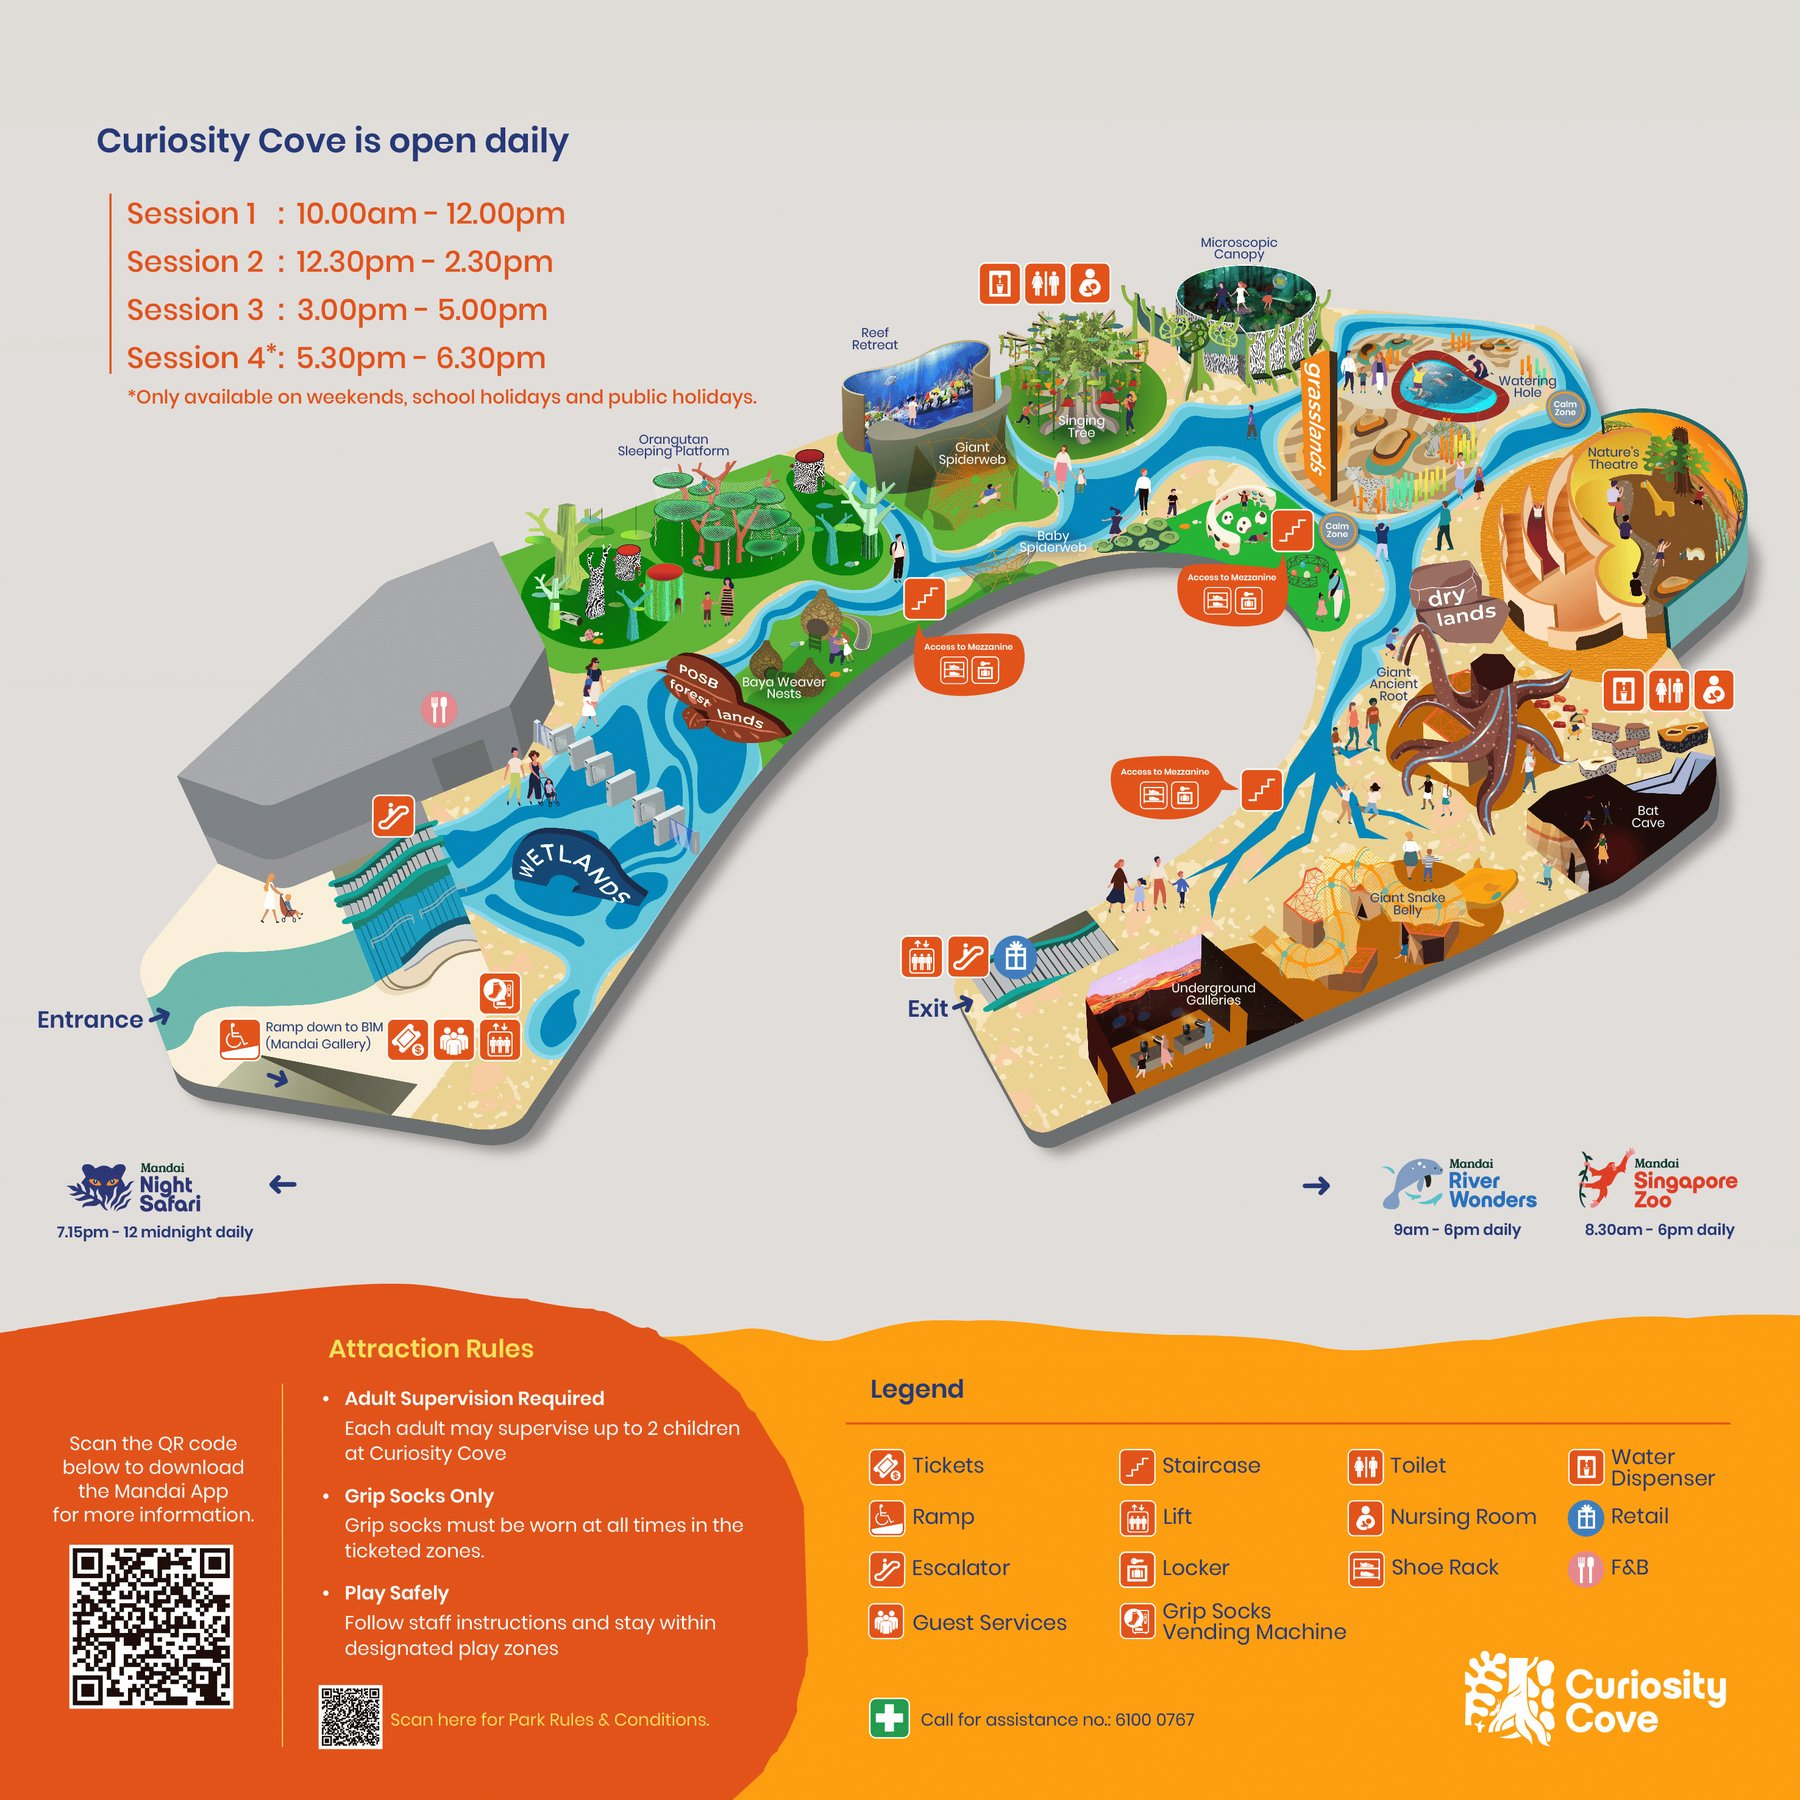
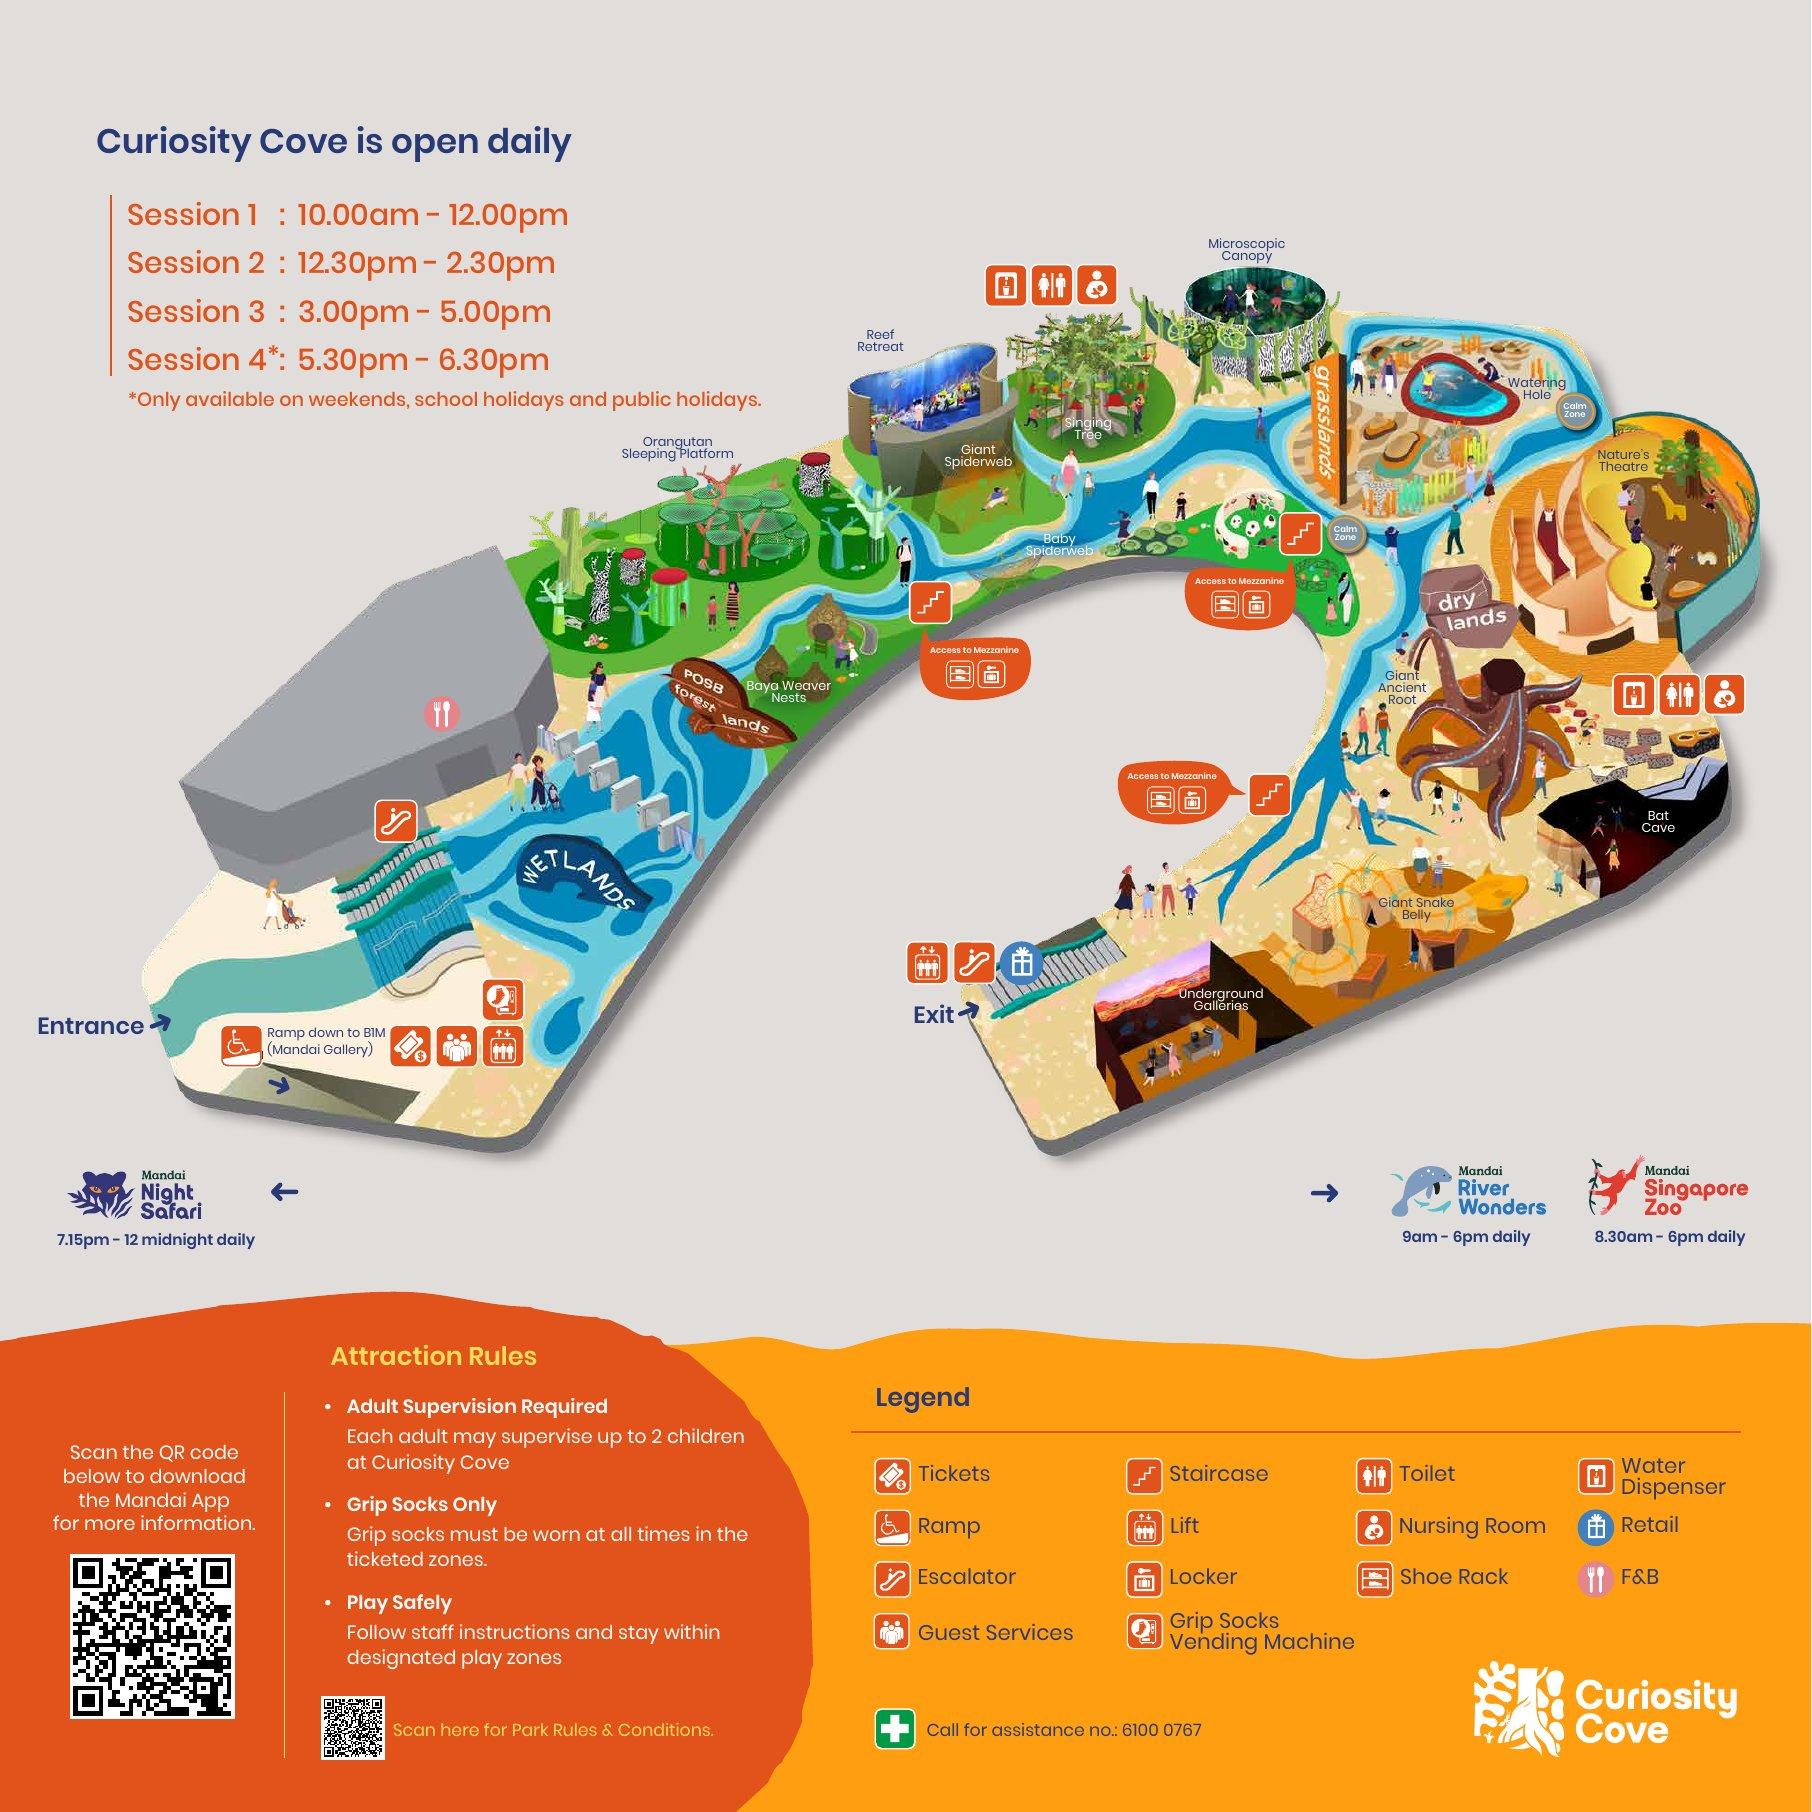
Intro photos for all attractions, new D3 maps and D5 postcard, optional-stop transit alternatives
- Intro card photos: Palawan, Singapore Zoo, Curiosity Cove, Merlion, Gardens by the Bay, Jewel
- D5 postcard replaced with Rain Vortex photo
- New Singapore Zoo (zh) and Curiosity Cove maps
- Collapsible "skip optional stop" transit alternative (D1 Chinatown, D2 Haji Lane)

diff --git a/index.html b/index.html
@@ -2588,6 +2588,22 @@ body[data-phase="depart"] .day-content::after { background-image: url("data:imag
   background: color-mix(in srgb, var(--accent) 22%, #ffffff);
   color: color-mix(in srgb, var(--accent) 88%, #3b2a1e);
 }
+
+/* 彈性行程的替代交通：收在「↳ 沒去○○時」小按鈕裡，點了才展開 */
+.move-alt-btn {
+  font: inherit;
+  font-family: var(--font-sans);
+  font-size: 11.5px;
+  color: var(--text-faint);
+  background: none;
+  border: none;
+  border-bottom: 1px dashed var(--line);
+  padding: 0 1px;
+  cursor: pointer;
+}
+.move-alt-btn.is-open { color: var(--text-soft); }
+.move-alt { margin-top: 6px; padding-left: 10px; border-left: 2px solid var(--line-soft); }
+.move-alt-label { display: block; font-family: var(--font-sans); font-size: 11px; color: var(--text-faint); margin-bottom: 3px; }
 </style>
 </head>
 
@@ -2904,6 +2920,7 @@ const itineraryData = [
         place: "牛車水 中國城 Chinatown",
         transit: [{ mode: "mrt", text: "聖淘沙捷運＋NE 線 35 分" }],
         route: "聖淘沙捷運回 VivoCity，HarbourFront 搭 NE 線到 Chinatown（2 站）。",
+        transitAlt: { label: "沒去巴拉灣時", from: "從住宿出發：", transit: [{ mode: "mrt", text: "NE 線 1 站" }, { mode: "walk", text: "20 分" }], route: "Clarke Quay 搭 NE 線到 Chinatown（1 站）；或從住宿沿新加坡河步行約 20 分。" },
         mapLink: "https://maps.google.com/?q=Chinatown+Singapore",
         description: "",
         note: "牛車水景點很多，點下方「可逛景點」看。",
@@ -2941,6 +2958,7 @@ const itineraryData = [
     introCards: [
       {
         title: "巴拉灣海灘｜亞洲大陸最南端的小島",
+        image: "images/singapore/intro-palawan.jpg",
         mapLink: "https://maps.google.com/?q=Palawan+Beach+Sentosa",
         text: "巴拉灣海灘（Palawan Beach）位在聖淘沙島南岸，是島上最適合散步、玩水的海灘之一，沙灘柔軟、浪不大，傍晚很適合看夕陽。\n\n海灘前方有一座小島，走過木造吊橋就能登上，島上的兩座瞭望台號稱「亞洲大陸最南端」，是聖淘沙最經典的拍照點。\n\n從市區搭地鐵到 HarbourFront，再轉聖淘沙捷運就能抵達；海灘沒什麼遮蔭，記得防曬、帶水。"
       },
@@ -3031,6 +3049,7 @@ const itineraryData = [
         place: "哈芝巷 Haji Lane",
         transit: [{ mode: "car", text: "Grab 10 分" }, { mode: "mrt", text: "EW 線 2 站" }],
         route: "步行到 Kallang 站搭 EW 線到 Bugis（2 站），出站再步行 5 分。",
+        transitAlt: { label: "沒去 G7 時", from: "從如切出發：", transit: [{ mode: "car", text: "Grab 15 分" }, { mode: "mrt", text: "EW 線 4 站" }], route: "步行約 12 分到 Paya Lebar 站，搭 EW 線到 Bugis（4 站），出站步行 5 分。" },
         mapLink: "https://maps.google.com/?q=Haji+Lane+Singapore",
         description: "",
         note: "彩色壁畫與個性小店的窄巷。",
@@ -3179,11 +3198,13 @@ const itineraryData = [
     introCards: [
       {
         title: "新加坡動物園｜沒有柵欄的雨林動物園",
+        image: "images/singapore/intro-singapore-zoo.jpg",
         mapLink: "https://maps.google.com/?q=Singapore+Zoo",
         text: "新加坡動物園（Singapore Zoo）位在萬禮（Mandai）野生動物保育區內，以「開放式」展示聞名，盡量用溝渠、水道與植栽取代鐵籠，讓動物在接近自然的環境中生活。\n\n園內最具代表性的是紅毛猩猩，牠們會在遊客頭頂的樹林與繩索間自由移動；另外還有長頸鹿、白老虎、大象等，也有動物表演與餵食時段，可以先查好場次。\n\n園區很大，可以搭遊園車節省體力；熱帶天氣悶熱，記得防曬、防蚊、多喝水。"
       },
       {
         title: "好奇心之灣｜室內的自然遊樂場",
+        image: "images/singapore/intro-curiosity-cove.jpg",
         mapLink: "https://maps.google.com/?q=Curiosity+Cove+Mandai+Singapore",
         text: "好奇心之灣（Curiosity Cove）位在萬禮野生動物保育區的 Mandai Wildlife EAST，是新加坡最大的室內自然主題遊樂空間，主要對象是 12 歲以下的小朋友。\n\n館內分成濕地、森林、草原、乾地四個主題區，透過攀爬、觸摸與互動裝置，認識動物如何適應不同的環境；冷氣房裡玩，剛好躲避戶外的炎熱或午後雷陣雨。\n\n入場需穿止滑襪（可自備或現場購買），鞋子要放在入口的鞋架；每位大人一次最多陪同兩位小朋友。"
       }
@@ -3282,11 +3303,13 @@ const itineraryData = [
     introCards: [
       {
         title: "魚尾獅公園｜新加坡的城市象徵",
+        image: "images/singapore/intro-merlion.jpg",
         mapLink: "https://maps.google.com/?q=Merlion+Park+Singapore",
         text: "魚尾獅（Merlion）是新加坡最知名的象徵：獅頭代表「獅城」新加坡（Singapura）的由來，魚身則象徵這座城市最早作為漁村的歷史。\n\n魚尾獅公園的主雕像高約 8.6 公尺，從口中噴出水柱，背後是濱海灣金沙酒店與海灣景色，是到新加坡必拍的經典畫面。\n\n早上人比較少、光線也柔和；拍照時站遠一點、找好角度，就能拍出「接水柱」的趣味照片。"
       },
       {
         title: "濱海灣花園｜未來感的超級樹與溫室",
+        image: "images/singapore/intro-gardens.jpg",
         mapLink: "https://maps.google.com/?q=Gardens+by+the+Bay",
         text: "濱海灣花園（Gardens by the Bay）於 2012 年開幕，是填海造地而成的大型花園，最有名的是一棵棵高聳的擎天樹（Supertree），樹身爬滿數萬株植物，晚上還有燈光音樂秀。\n\n園內兩座冷卻溫室是重點：花穹（Flower Dome）展示來自地中海與乾燥地區的花卉，是世界最大的玻璃溫室之一；雲霧林（Cloud Forest）則有一座約 35 公尺高的室內瀑布，目前結合了侏羅紀主題的恐龍展。\n\n溫室裡溫度約 23–25°C，帶件薄外套；雲霧林每隔兩小時有人造雲霧，可以算好時間進場。"
       }
@@ -3364,6 +3387,7 @@ const itineraryData = [
     introCards: [
       {
         title: "星耀樟宜｜世界最高的室內瀑布",
+        image: "images/singapore/intro-jewel.jpg",
         mapLink: "https://maps.google.com/?q=Jewel+Changi+Airport",
         text: "星耀樟宜（Jewel Changi Airport）於 2019 年開幕，由建築師 Moshe Safdie 設計，是一座連接樟宜機場航廈的玻璃圓頂綜合設施，裡面有商店、餐廳與大片室內森林。\n\n正中央的雨漩渦（Rain Vortex）是世界最高的室內瀑布，水從圓頂中央約 40 公尺高處傾瀉而下；四周的森林谷種滿上千棵樹與植物，很適合在登機前散步。\n\n晚上瀑布會有燈光音樂秀，但返程當天看不到，白天看瀑布就很壯觀；從 T1 可直接走進來，T2、T3 則走連通橋約 5–10 分鐘。"
       }
@@ -4093,18 +4117,36 @@ function renderDayContent() {
 const TRANSIT_ICON = { walk: "🚶", car: "🚕", mrt: "🚇", pin: "📍" };
 function renderTransit(it) {
   if (!Array.isArray(it.transit) || !it.transit.length) return "";
-  const chips = it.transit.map(c =>
+  const chipsOf = list => list.map(c =>
     `<span class="move-chip move-chip--${escapeHTML(c.mode)}">${TRANSIT_ICON[c.mode] || ""} ${escapeHTML(c.text)}</span>`).join("");
-  const more = it.route
-    ? `<button class="move-more" type="button" aria-expanded="false">路線 ›</button>`
+  const group = (list, route, extra = "", cls = "", head = "") => {
+    const more = route ? `<button class="move-more" type="button" aria-expanded="false">路線 ›</button>` : "";
+    const detail = route ? `<p class="move-detail" hidden>${escapeHTML(route)}</p>` : "";
+    return `<div class="move-group${cls}">${head}<div class="move-chips">${chipsOf(list)}${more}${extra}</div>${detail}</div>`;
+  };
+  /* 前一站是彈性行程時：替代走法收進小按鈕，點了才展開 */
+  const a = it.transitAlt;
+  const hasAlt = a && Array.isArray(a.transit) && a.transit.length;
+  const altBtn = hasAlt ? `<button class="move-alt-btn" type="button" aria-expanded="false">↳ ${escapeHTML(a.label || "跳過彈性行程時")}</button>` : "";
+  const altBox = hasAlt
+    ? `<div class="move-alt" hidden>${group(a.transit, a.route, "", " move-group--alt", a.from ? `<span class="move-alt-label">${escapeHTML(a.from)}</span>` : "")}</div>`
     : "";
-  const detail = it.route ? `<p class="move-detail" hidden>${escapeHTML(it.route)}</p>` : "";
-  return `<div class="trip-move"><span class="trip-move__line"></span><div class="trip-move__body"><div class="move-chips">${chips}${more}</div>${detail}</div></div>`;
+  return `<div class="trip-move"><span class="trip-move__line"></span><div class="trip-move__body">${group(it.transit, it.route, altBtn)}${altBox}</div></div>`;
 }
+document.addEventListener("click", e => {
+  const btn = e.target.closest(".move-alt-btn");
+  if (!btn) return;
+  const box = btn.closest(".trip-move__body").querySelector(".move-alt");
+  if (!box) return;
+  const open = box.hidden;
+  box.hidden = !open;
+  btn.setAttribute("aria-expanded", String(open));
+  btn.classList.toggle("is-open", open);
+});
 document.addEventListener("click", e => {
   const btn = e.target.closest(".move-more");
   if (!btn) return;
-  const d = btn.closest(".trip-move__body").querySelector(".move-detail");
+  const d = btn.closest(".move-group").querySelector(".move-detail");
   if (!d) return;
   const open = d.hidden;
   d.hidden = !open;
